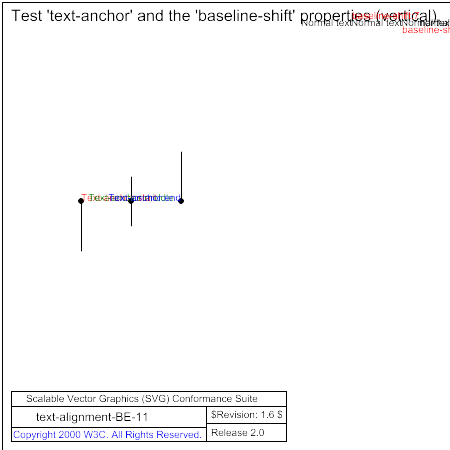
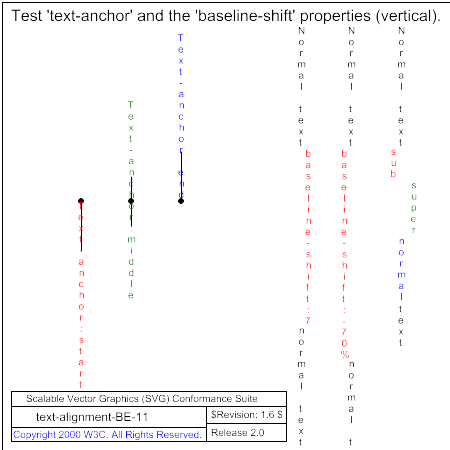
Added vertical text support. Commit done on behalf of Dean Jackson after running the whole regard test suite (and BE suite) and doing manual tests. PR: Obtained from: Submitted by: Reviewed by:
git-svn-id: https://svn.apache.org/repos/asf/xmlgraphics/batik/trunk@199953 13f79535-47bb-0310-9956-ffa450edef68

diff --git a/sources/org/apache/batik/gvt/text/GlyphLayout.java b/sources/org/apache/batik/gvt/text/GlyphLayout.java
@@ -302,8 +302,14 @@ public class GlyphLayout implements TextSpanLayout {
      * Returns true if the advance direction of this text is vertical.
      */
     public boolean isVertical() {
-        // TODO: Implement this!
-        return false;
+	
+        if (aci.getAttribute(GVTAttributedCharacterIterator.
+                            TextAttribute.WRITING_MODE) == 
+            GVTAttributedCharacterIterator.TextAttribute.WRITING_MODE_TTB) {
+            return true;
+        } else {
+            return false;
+        }
     }
 
     /**
@@ -962,6 +968,22 @@ public class GlyphLayout implements TextSpanLayout {
     }
 
 
+    protected boolean isLatinChar(char c) {
+
+        Character.UnicodeBlock block = Character.UnicodeBlock.of(c);
+        
+        if (block == Character.UnicodeBlock.BASIC_LATIN ||
+            block == Character.UnicodeBlock.LATIN_1_SUPPLEMENT ||
+            block == Character.UnicodeBlock.LATIN_EXTENDED_ADDITIONAL ||
+            block == Character.UnicodeBlock.LATIN_EXTENDED_A ||
+            block == Character.UnicodeBlock.LATIN_EXTENDED_B) {
+            return true;
+        } else {
+            return false;
+        }
+
+    }
+
     protected void doExplicitGlyphLayout(boolean applyOffset) {
         char ch = aci.first();
         int i=0;
@@ -976,14 +998,46 @@ public class GlyphLayout implements TextSpanLayout {
         float init_y_pos = (float) offset.getY();
         float curr_x_pos = init_x_pos;
         float curr_y_pos = init_y_pos;
+        boolean firstChar = true;
+        float verticalFirstOffset = 0f;
+        boolean verticalTextOrient = true;
 
         while (i < numGlyphs) {
+
+            if (firstChar) {
+                if (aci.getAttribute(GVTAttributedCharacterIterator.
+                                     TextAttribute.VERTICAL_ORIENTATION)
+                    == GVTAttributedCharacterIterator.
+                    TextAttribute.ORIENTATION_AUTO) {
+
+                    if (isLatinChar(ch)) {
+                        // it will be rotated
+                        verticalFirstOffset = 0f;
+                    } else {
+                        // it won't be rotated
+                        verticalFirstOffset = (float) gv.getGlyphMetrics(i).getBounds2D().getHeight();
+                    }
+                } else {
+                    verticalFirstOffset = (float) gv.getGlyphMetrics(i).getBounds2D().getHeight();
+                    verticalTextOrient = false;
+                }
+            } else {
+                if (verticalTextOrient && verticalFirstOffset == 0f 
+                    && !isLatinChar(ch)) {
+
+                    verticalFirstOffset = (float) gv.getGlyphMetrics(i).getBounds2D().getHeight();
+                }
+
+            }
+
+
 
             // ox and oy are origin adjustments for each glyph,
             // computed on the basis of baseline-shifts, etc.
             float ox = 0f;
             float oy = 0f;
             Float rotation = null;
+            float verticalTextRotation = 0f;
 
             if (ch != CharacterIterator.DONE) {
                 Float x = (Float) aci.getAttribute(
@@ -996,6 +1050,29 @@ public class GlyphLayout implements TextSpanLayout {
                              GVTAttributedCharacterIterator.TextAttribute.DY);
                 rotation = (Float) aci.getAttribute(
                         GVTAttributedCharacterIterator.TextAttribute.ROTATION);
+                
+                if (isVertical()) {
+                    if (verticalTextOrient) {
+                        if (isLatinChar(ch)) {
+                            // If character is Latin, then rotate by
+                            // 90 degrees
+                            verticalTextRotation = (float) (Math.PI / 2f);
+                        } else {
+                            verticalTextRotation = 0f;
+                        }
+                    } else {
+                        verticalTextRotation = ((Float)aci.getAttribute(GVTAttributedCharacterIterator.
+                                                                        TextAttribute.VERTICAL_ORIENTATION_ANGLE)).floatValue();
+                    }
+
+                }
+
+                if (rotation == null || rotation.isNaN()) {
+                    rotation = new Float(verticalTextRotation);
+                } else {
+                    rotation = new Float(rotation.floatValue() + verticalTextRotation);
+                }
+
 
                 if (x!= null && !x.isNaN()) {
                     if (i==0) {
@@ -1048,16 +1125,41 @@ public class GlyphLayout implements TextSpanLayout {
                         oy = -baselineAdjust;
                     }
                 }
+
+                if (isVertical()) {
+                    // offset due to rotation of first character
+                    oy += verticalFirstOffset;
+
+                    if (!verticalTextOrient) {
+                        // center the character if it's not auto orient
+                        ox -= (float) gv.getGlyphMetrics(i).getBounds2D().getWidth() / 2f;
+                    }
+                }
             }
             gv.setGlyphPosition(i, new Point2D.Float(curr_x_pos+ox,curr_y_pos+oy));
-            if (rotation != null && !rotation.isNaN()) {
+            if (rotation.floatValue() != 0f) {
                 gv.setGlyphTransform(i,
                     AffineTransform.getRotateInstance(
                         (double)rotation.floatValue()));
             }
-            curr_x_pos += (float) gv.getGlyphMetrics(i).getAdvance();
+
+            if (isVertical()) {
+                if (verticalTextOrient) {
+                    if (isLatinChar(ch)) {
+                        curr_y_pos += (float) gv.getGlyphMetrics(i).getAdvance();
+                    } else {
+                        curr_y_pos += (metrics.getAscent() + metrics.getDescent());
+                    }
+                } else {
+                    curr_y_pos += (metrics.getAscent() + metrics.getDescent());
+                }
+            } else {
+                curr_x_pos += (float) gv.getGlyphMetrics(i).getAdvance();
+            }
             ch = aci.next();
             ++i;
+            firstChar = false;
+
         }
 
         advance = new Point2D.Float((float) (curr_x_pos-offset.getX()),

diff --git a/sources/org/apache/batik/bridge/SVGTextElementBridge.java b/sources/org/apache/batik/bridge/SVGTextElementBridge.java
@@ -597,6 +597,7 @@ public class SVGTextElementBridge extends AbstractSVGBridge
         String s;
         float f;
         short t;
+        boolean verticalText = false;
 
         result.put(GVTAttributedCharacterIterator.TextAttribute.TEXT_COMPOUND_DELIMITER, element);
 
@@ -876,6 +877,45 @@ public class SVGTextElementBridge extends AbstractSVGBridge
                        TextAttribute.WRITING_MODE_RTL);
             break;
         case 't':
+	    result.put(GVTAttributedCharacterIterator.
+		       TextAttribute.WRITING_MODE,
+		       GVTAttributedCharacterIterator.
+		       TextAttribute.WRITING_MODE_TTB);
+            break;
+        }
+
+        // glyph-orientation-vertical
+
+        v = (CSSPrimitiveValue)cssDecl.getPropertyCSSValueInternal
+            (CSS_GLYPH_ORIENTATION_VERTICAL_PROPERTY);
+
+        // why is it that getStringValue() throws an exception?
+        s = v.getCssText();
+        switch (s.charAt(0)) {
+        case 'a':
+            result.put(GVTAttributedCharacterIterator.
+                       TextAttribute.VERTICAL_ORIENTATION,
+                       GVTAttributedCharacterIterator.
+                       TextAttribute.ORIENTATION_AUTO);
+            break;
+        case '0':
+        case '1':
+        case '2':
+        case '3':
+        case '4':
+        case '5':
+        case '6':
+        case '7':
+        case '8':
+        case '9':
+        case '.':
+            result.put(GVTAttributedCharacterIterator.
+                       TextAttribute.VERTICAL_ORIENTATION,
+                       GVTAttributedCharacterIterator.
+                       TextAttribute.ORIENTATION_ANGLE);
+            result.put(GVTAttributedCharacterIterator.
+                       TextAttribute.VERTICAL_ORIENTATION_ANGLE,
+                       new Float(s));
             break;
         }
 

diff --git a/sources/org/apache/batik/gvt/text/GVTAttributedCharacterIterator.java b/sources/org/apache/batik/gvt/text/GVTAttributedCharacterIterator.java
@@ -323,6 +323,11 @@ public interface GVTAttributedCharacterIterator extends
         public final static TextAttribute WRITING_MODE =
                                           new TextAttribute("WRITING_MODE");
 
+        public final static TextAttribute VERTICAL_ORIENTATION =
+                                          new TextAttribute("VERTICAL_ORIENTATION");
+
+        public final static TextAttribute VERTICAL_ORIENTATION_ANGLE =
+                                          new TextAttribute("VERTICAL_ORIENTATION_ANGLE");
 
         public final static TextAttribute GVT_FONT_FAMILIES =
                                           new TextAttribute("GVT_FONT_FAMILIES");
@@ -340,6 +345,15 @@ public interface GVTAttributedCharacterIterator extends
 
         /** Value for WRITING_MODE indicating right-to-left */
         public final static Integer WRITING_MODE_RTL = new Integer(0x2);
+
+        /** Value for WRITING_MODE indicating top-to-botton */
+        public final static Integer WRITING_MODE_TTB = new Integer(0x3);
+
+        /** Value for VERTICAL_ORIENTATION indicating an angle */
+        public final static Integer ORIENTATION_ANGLE = new Integer(0x1);
+
+        /** Value for VERTICAL_ORIENTATION indicating auto */
+        public final static Integer ORIENTATION_AUTO = new Integer(0x2);
 
         /** Value for FONT_VARIANT specifying small caps */
         public final static Integer SMALL_CAPS = new Integer(0x10);

diff --git a/sources/org/apache/batik/css/svg/GlyphOrientationVerticalResolver.java b/sources/org/apache/batik/css/svg/GlyphOrientationVerticalResolver.java
@@ -30,7 +30,7 @@ public class GlyphOrientationVerticalResolver
      * Whether the handled property is inherited or not.
      */
     public boolean isInheritedProperty() {
-	return false;
+	return true;
     }
 
     /**
